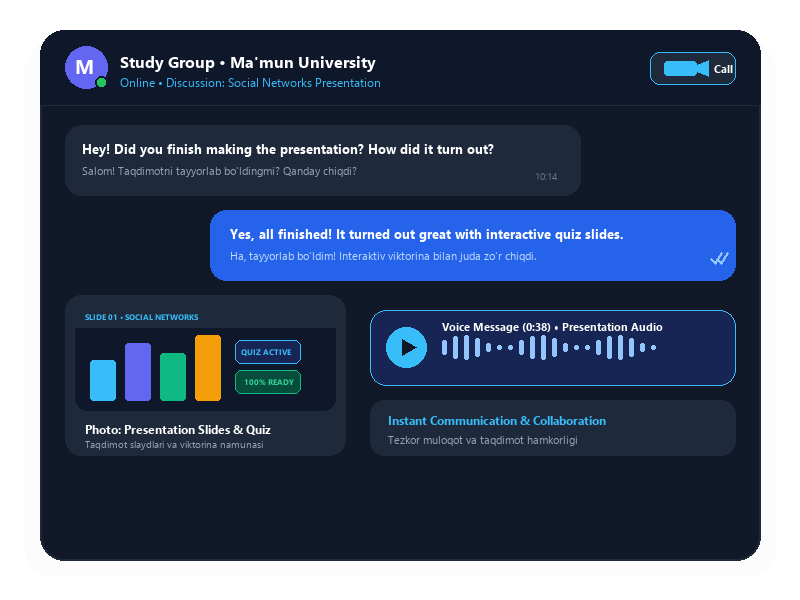
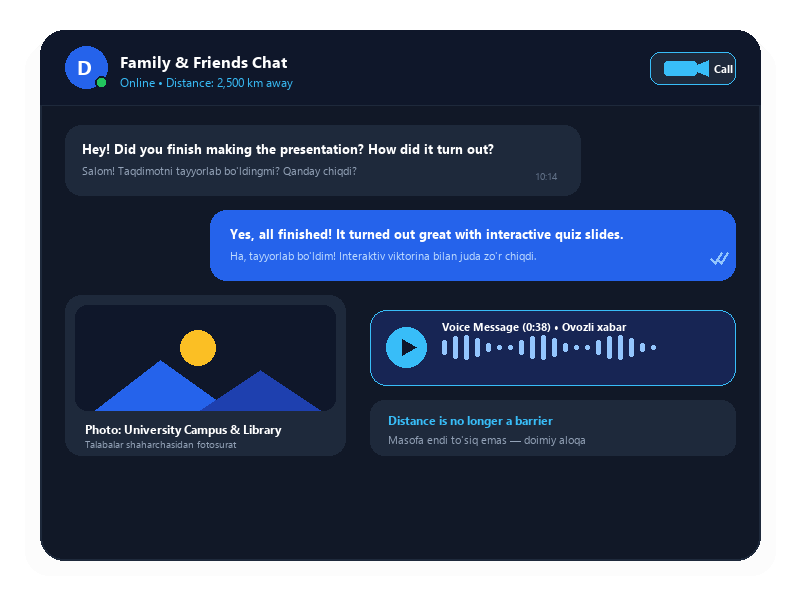
fix: restore original Family & Friends Chat header and surroundings, keeping only requested presentation dialogue

diff --git a/fix_chat_visual.py b/fix_chat_visual.py
@@ -29,19 +29,19 @@ def create_realistic_communication_mockup():
         draw.rounded_rectangle([card_x1 - s, card_y1 + s, card_x2 + s, card_y2 + s], radius=24, fill=(0, 0, 0, int(18 - s)))
     draw.rounded_rectangle([card_x1, card_y1, card_x2, card_y2], radius=24, fill=(17, 24, 39), outline=(30, 41, 59), width=2)
 
-    # Header bar
+    # Header bar (ORIGINAL RESTORED)
     draw.rounded_rectangle([card_x1, card_y1, card_x2, card_y1 + 75], radius=24, fill=(15, 23, 42))
     draw.rectangle([card_x1, card_y1 + 50, card_x2, card_y1 + 75], fill=(15, 23, 42))
     draw.line([(card_x1, card_y1 + 75), (card_x2, card_y1 + 75)], fill=(30, 41, 59), width=1)
 
-    # Avatar circle (User initials: M for Mamun University study group)
-    draw.ellipse([card_x1 + 25, card_y1 + 16, card_x1 + 67, card_y1 + 58], fill=(99, 102, 241))
-    draw.text((card_x1 + 35, card_y1 + 22), "M", font=get_font(20, bold=True), fill=(255, 255, 255))
+    # Avatar circle (User initials: D)
+    draw.ellipse([card_x1 + 25, card_y1 + 16, card_x1 + 67, card_y1 + 58], fill=(37, 99, 235))
+    draw.text((card_x1 + 37, card_y1 + 23), "D", font=get_font(20, bold=True), fill=(255, 255, 255))
     # Active online indicator
     draw.ellipse([card_x1 + 55, card_y1 + 46, card_x1 + 67, card_y1 + 58], fill=(34, 197, 94), outline=(15, 23, 42), width=2)
 
-    draw.text((card_x1 + 80, card_y1 + 20), "Study Group • Ma'mun University", font=get_font(16, bold=True), fill=(255, 255, 255))
-    draw.text((card_x1 + 80, card_y1 + 44), "Online • Discussion: Social Networks Presentation", font=get_font(12), fill=(56, 189, 248))
+    draw.text((card_x1 + 80, card_y1 + 20), "Family & Friends Chat", font=get_font(16, bold=True), fill=(255, 255, 255))
+    draw.text((card_x1 + 80, card_y1 + 44), "Online • Distance: 2,500 km away", font=get_font(12), fill=(56, 189, 248))
 
     # Video call icon badge in header (Right)
     vx = card_x2 - 110
@@ -65,39 +65,26 @@ def create_realistic_communication_mockup():
     draw.rounded_rectangle([card_x2 - 25 - m2_w, m2_y, card_x2 - 25, m2_y + 70], radius=16, fill=(37, 99, 235))
     draw.text((card_x2 - 25 - m2_w + 20, m2_y + 14), "Yes, all finished! It turned out great with interactive quiz slides.", font=get_font(13, bold=True), fill=(255, 255, 255))
     draw.text((card_x2 - 25 - m2_w + 20, m2_y + 38), "Ha, tayyorlab bo'ldim! Interaktiv viktorina bilan juda zo'r chiqdi.", font=get_font(11), fill=(191, 219, 254))
-    # double check mark & time
+    # double check mark
     cx_mark = card_x2 - 50
     draw.line([(cx_mark, m2_y + 48), (cx_mark + 5, m2_y + 53), (cx_mark + 12, m2_y + 42)], fill=(147, 197, 253), width=2)
     draw.line([(cx_mark + 6, m2_y + 48), (cx_mark + 11, m2_y + 53), (cx_mark + 18, m2_y + 42)], fill=(147, 197, 253), width=2)
 
-    # --- Message 3 (Shared presentation slide preview) ---
+    # --- Message 3 (Shared photo / moment - ORIGINAL RESTORED) ---
     m3_y = m2_y + 85
     pw = 280
     draw.rounded_rectangle([card_x1 + 25, m3_y, card_x1 + 25 + pw, m3_y + 160], radius=16, fill=(30, 41, 59))
-    # Slide canvas inside
+    # Photo canvas inside
     draw.rounded_rectangle([card_x1 + 35, m3_y + 10, card_x1 + 15 + pw, m3_y + 115], radius=12, fill=(15, 23, 42))
-    
-    # Mini presentation slide graphics inside thumbnail:
-    # Header bar of mini slide
-    draw.rectangle([card_x1 + 35, m3_y + 10, card_x1 + 15 + pw, m3_y + 32], fill=(30, 41, 59))
-    draw.text((card_x1 + 45, m3_y + 16), "SLIDE 01 • SOCIAL NETWORKS", font=get_font(8, bold=True), fill=(56, 189, 248))
-    # Mini colorful bars (charts)
-    draw.rounded_rectangle([card_x1 + 50, m3_y + 65, card_x1 + 75, m3_y + 105], radius=3, fill=(56, 189, 248))
-    draw.rounded_rectangle([card_x1 + 85, m3_y + 48, card_x1 + 110, m3_y + 105], radius=3, fill=(99, 102, 241))
-    draw.rounded_rectangle([card_x1 + 120, m3_y + 58, card_x1 + 145, m3_y + 105], radius=3, fill=(16, 185, 129))
-    draw.rounded_rectangle([card_x1 + 155, m3_y + 40, card_x1 + 180, m3_y + 105], radius=3, fill=(245, 158, 11))
-    
-    # Mini decorative interactive badge (No emoji glyphs to prevent missing character boxes)
-    draw.rounded_rectangle([card_x1 + 195, m3_y + 45, card_x1 + 260, m3_y + 68], radius=6, fill=(23, 37, 84), outline=(56, 189, 248), width=1)
-    draw.text((card_x1 + 201, m3_y + 51), "QUIZ ACTIVE", font=get_font(8, bold=True), fill=(56, 189, 248))
-    
-    draw.rounded_rectangle([card_x1 + 195, m3_y + 75, card_x1 + 260, m3_y + 98], radius=6, fill=(6, 78, 59), outline=(16, 185, 129), width=1)
-    draw.text((card_x1 + 204, m3_y + 81), "100% READY", font=get_font(8, bold=True), fill=(52, 211, 153))
+    # Stylized sunset & university silhouette
+    draw.ellipse([card_x1 + 140, m3_y + 35, card_x1 + 175, m3_y + 70], fill=(251, 191, 36))
+    # mountains / campus roof
+    draw.polygon([(card_x1 + 55, m3_y + 115), (card_x1 + 120, m3_y + 65), (card_x1 + 190, m3_y + 115)], fill=(37, 99, 235))
+    draw.polygon([(card_x1 + 160, m3_y + 115), (card_x1 + 220, m3_y + 75), (card_x1 + 280, m3_y + 115)], fill=(30, 64, 175))
+    draw.text((card_x1 + 45, m3_y + 126), "Photo: University Campus & Library", font=get_font(12, bold=True), fill=(255, 255, 255))
+    draw.text((card_x1 + 45, m3_y + 142), "Talabalar shaharchasidan fotosurat", font=get_font(10), fill=(148, 163, 184))
 
-    draw.text((card_x1 + 45, m3_y + 126), "Photo: Presentation Slides & Quiz", font=get_font(12, bold=True), fill=(255, 255, 255))
-    draw.text((card_x1 + 45, m3_y + 142), "Taqdimot slaydlari va viktorina namunasi", font=get_font(10), fill=(148, 163, 184))
-
-    # --- Audio Voice Message Card (Right side of photo) ---
+    # --- Audio Voice Message Card (Right side of photo - ORIGINAL RESTORED) ---
     vm_x = card_x1 + 25 + pw + 25
     vm_w = card_x2 - 25 - vm_x
     draw.rounded_rectangle([vm_x, m3_y + 15, vm_x + vm_w, m3_y + 90], radius=16, fill=(23, 37, 84), outline=(56, 189, 248), width=1)
@@ -110,15 +97,15 @@ def create_realistic_communication_mockup():
         wh = max(4, int(14 + math.sin(i * 0.9) * 12))
         wx = vm_x + 72 + i * 11
         draw.rounded_rectangle([wx, m3_y + 52 - wh//2, wx + 4, m3_y + 52 + wh//2], radius=2, fill=(147, 197, 253))
-    draw.text((vm_x + 72, m3_y + 24), "Voice Message (0:38) • Presentation Audio", font=get_font(11, bold=True), fill=(255, 255, 255))
+    draw.text((vm_x + 72, m3_y + 24), "Voice Message (0:38) • Ovozli xabar", font=get_font(11, bold=True), fill=(255, 255, 255))
 
-    # Connectivity banner below voice message
+    # Connectivity banner below voice message (ORIGINAL RESTORED)
     draw.rounded_rectangle([vm_x, m3_y + 105, vm_x + vm_w, m3_y + 160], radius=14, fill=(30, 41, 59))
-    draw.text((vm_x + 18, m3_y + 117), "Instant Communication & Collaboration", font=get_font(12, bold=True), fill=(56, 189, 248))
-    draw.text((vm_x + 18, m3_y + 137), "Tezkor muloqot va taqdimot hamkorligi", font=get_font(11), fill=(148, 163, 184))
+    draw.text((vm_x + 18, m3_y + 117), "Distance is no longer a barrier", font=get_font(12, bold=True), fill=(56, 189, 248))
+    draw.text((vm_x + 18, m3_y + 137), "Masofa endi to'siq emas — doimiy aloqa", font=get_font(11), fill=(148, 163, 184))
 
     img.save(os.path.join(ASSETS_DIR, "chat_visual.png"))
-    print("Realistic communication mockup updated successfully with clean typography!")
+    print("Realistic communication mockup updated with original header & photo restored!")
 
 if __name__ == "__main__":
     create_realistic_communication_mockup()
